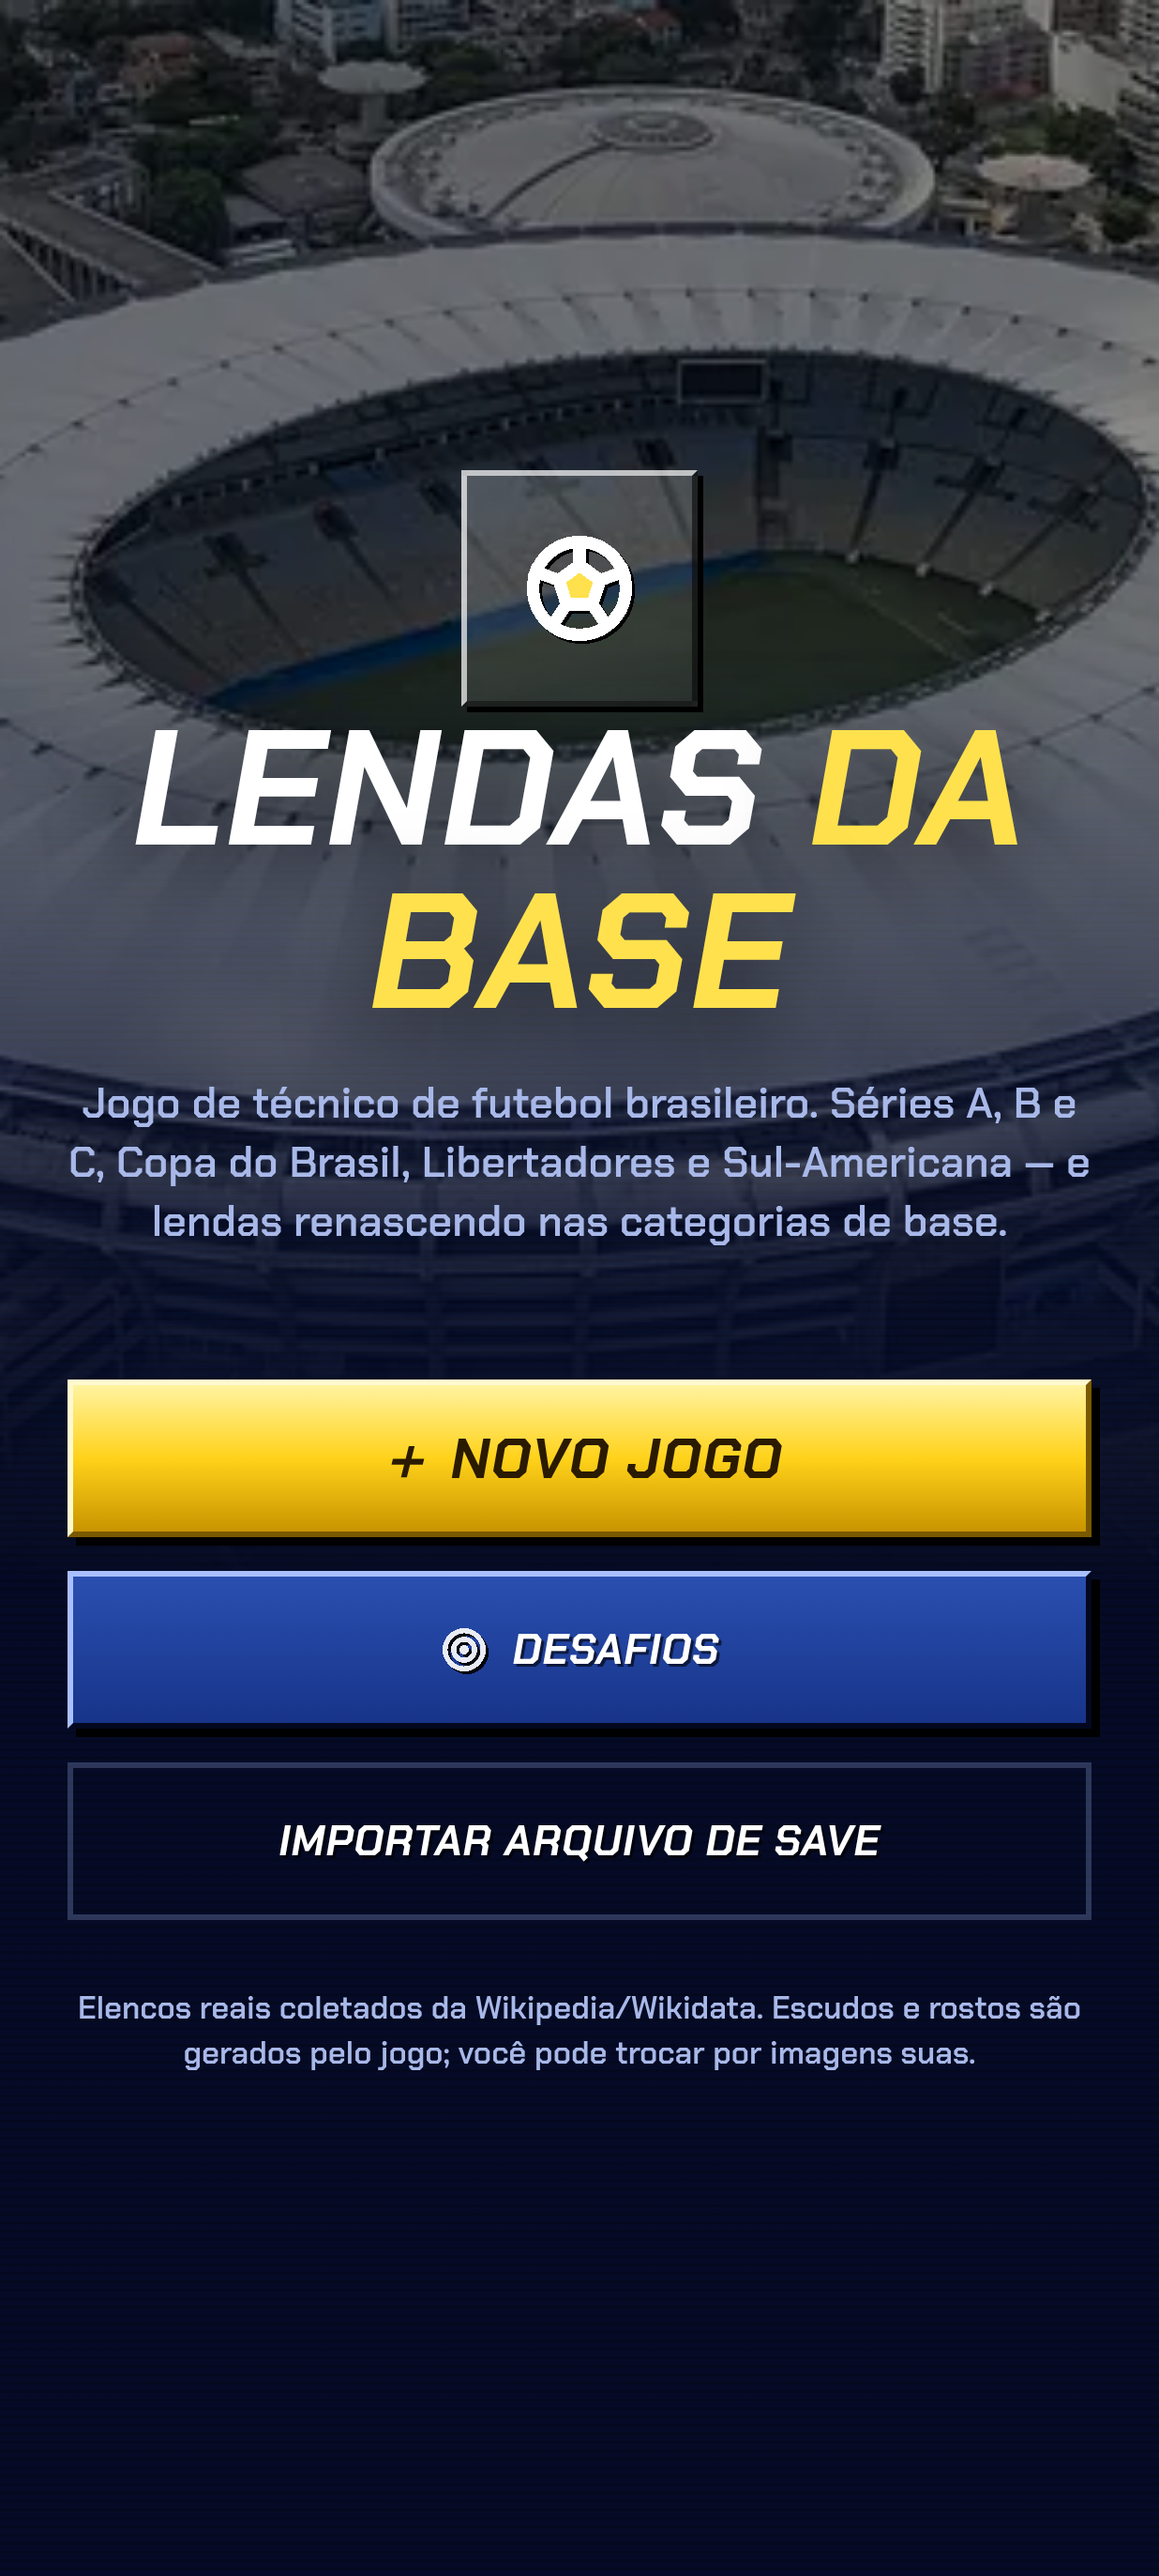
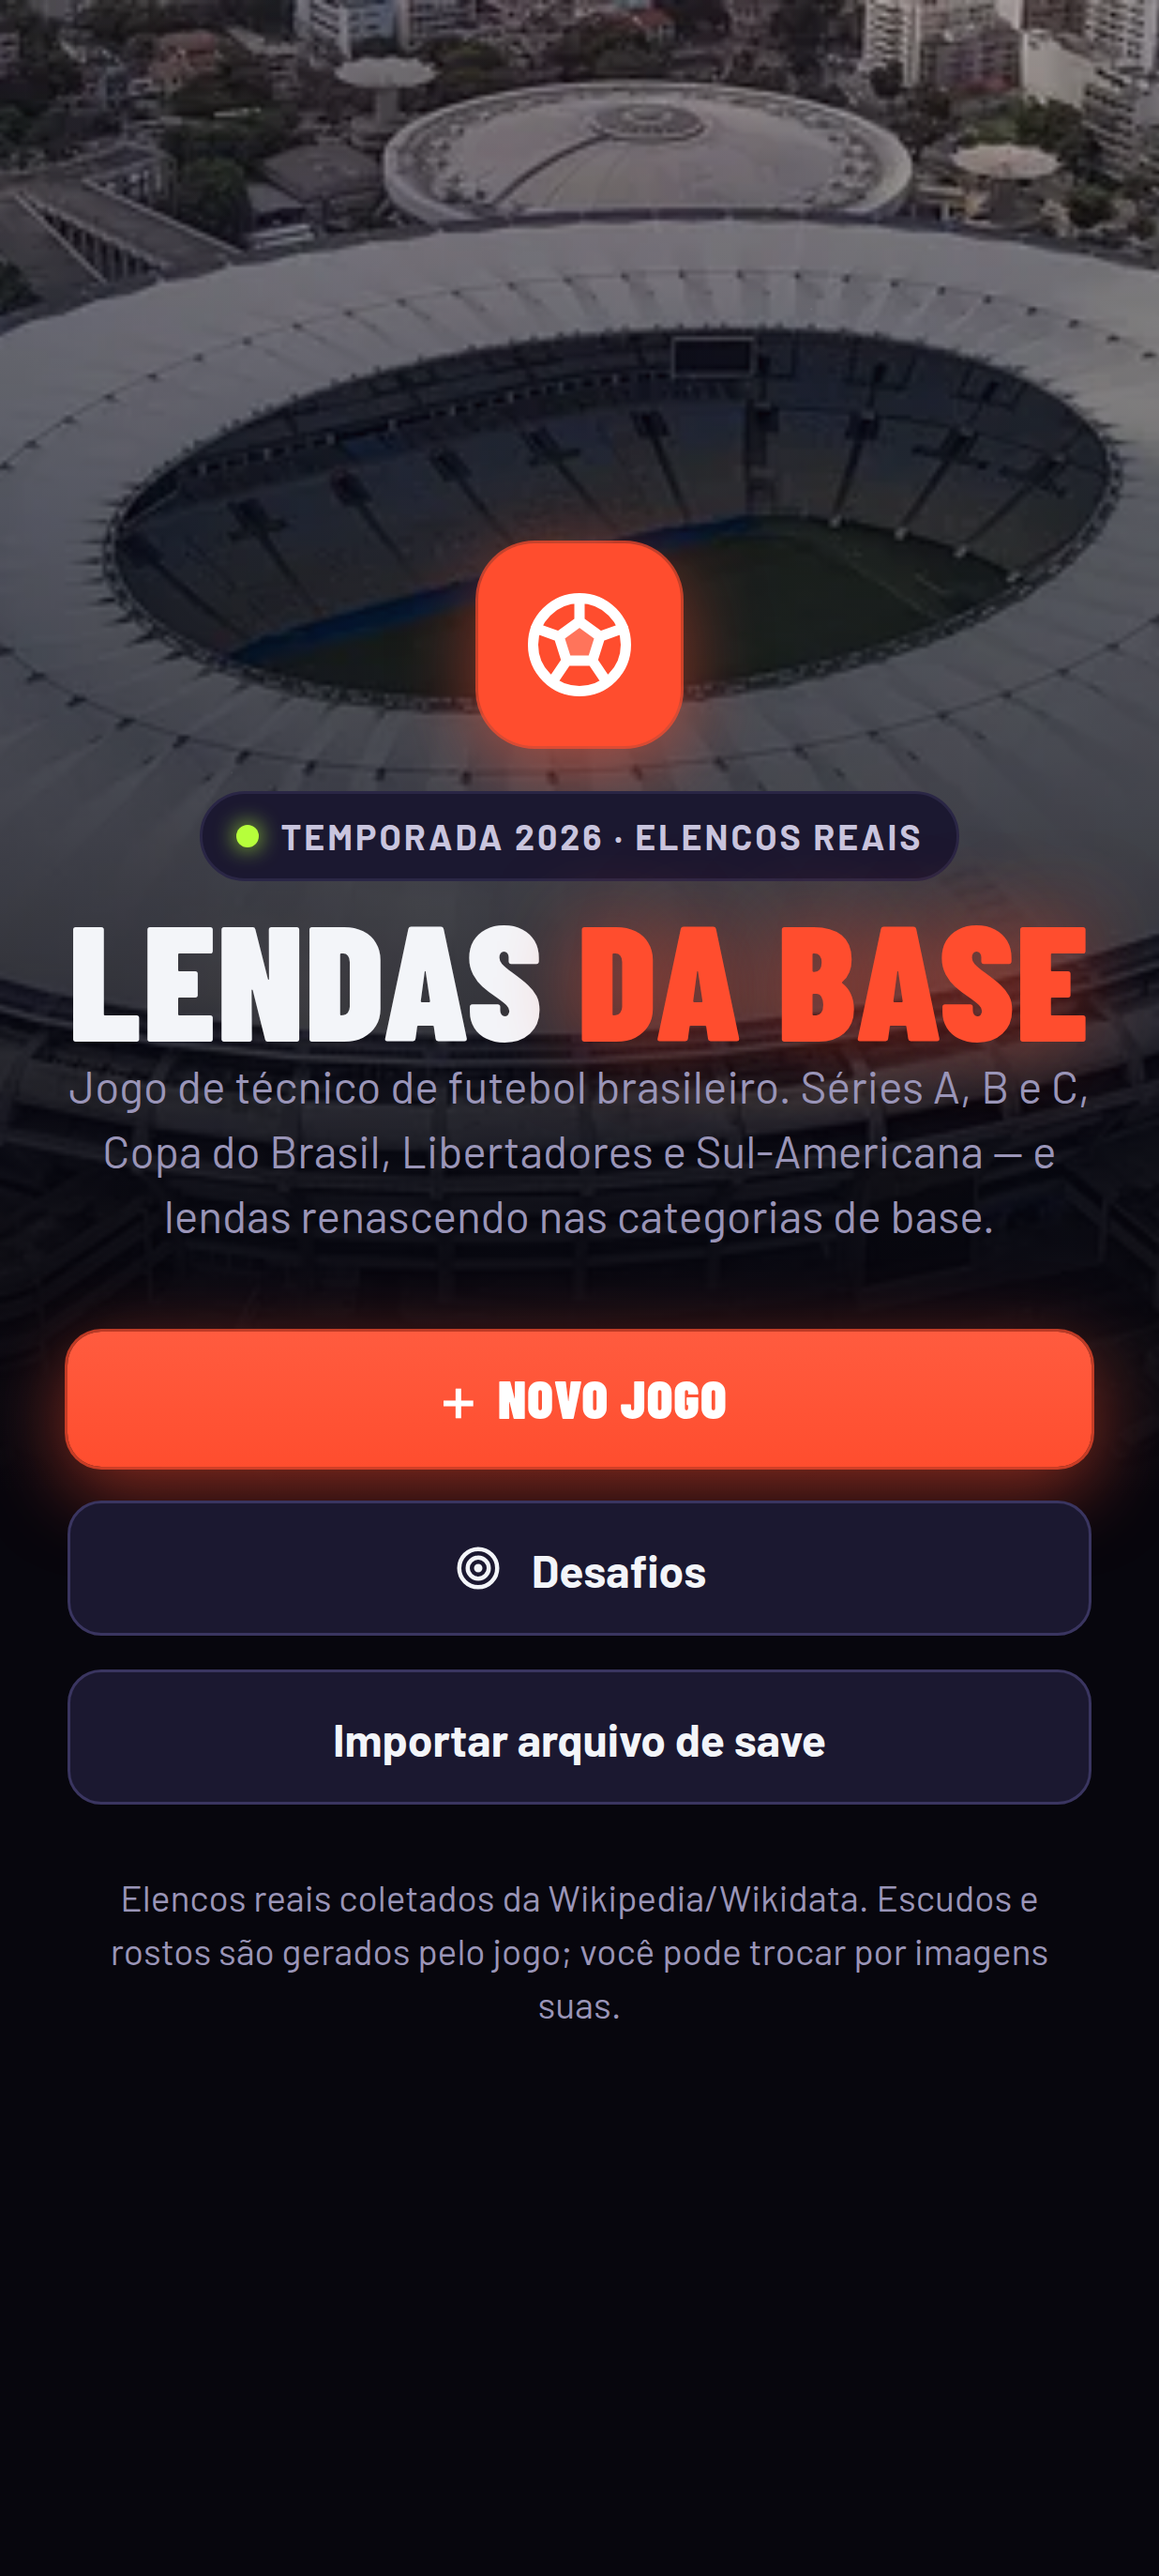
Identidade Noite de Estádio e sede 3D com geografia real
- tema próprio (src/ui/theme.css) no lugar das camadas premium/PS1: cor do clube como marca,
  acento elétrico só em números e status, títulos condensados em caixa-alta, pills com ponto
- casca refeita: barra superior com Voltar consistente, navegação inferior fixa e barra do
  próximo passo (Continuar/Jogar) que não cobre conteúdo; Início refeito
- carta de jogador estilo FUT (foto inteira, nota no canto, nome condensado)
- sede 3D: estádio, CT e sede nas posições reais (Wikidata + OpenStreetMap, distâncias
  comprimidas), ruas/verdes/prédios do OSM, câmera voa até o prédio tocado; detalhe,
  resolução, sombras e torcida crescem com a Estrutura; layout de reserva sem dados
- scripts/fetch_club_sites.py (retomável, 1 req/s) e src/data/clubSites.json (Série A/B em andamento)
- estádios procedurais da partida ganham cobertura/refletores pelo nível do estádio

Claude-Session: https://claude.ai/code/session_01GEdqSD6kocsd4QKZkbJZEj

diff --git a/src/ui/hq/HqRenderer.ts b/src/ui/hq/HqRenderer.ts
@@ -202,7 +202,7 @@ export class HqRenderer {
     const pts = Object.values(this.siteCenter) as THREE.Vector3[];
     const c = pts.reduce((s, p) => s.add(p), new THREE.Vector3()).multiplyScalar(1 / Math.max(1, pts.length));
     const spread = pts.reduce((m, p) => Math.max(m, p.distanceTo(c)), 0);
-    this.overview = { target: c, dist: Math.max(70, spread * 1.3 + 46) };
+    this.overview = { target: c, dist: Math.max(70, spread * 2.3 + 50) };
     this.target.copy(c);
     this.dist = this.overview.dist;
     const fog = this.scene.fog as THREE.Fog;
@@ -795,7 +795,7 @@ export class HqRenderer {
   focus(id: HqBuilding | "overview", then?: () => void) {
     const to = id === "overview" ? this.overview.target.clone() : this.anchors[id]?.clone().setY(0);
     if (!to) return;
-    this.flyTo(to, id === "overview" ? this.overview.dist : id === "stadium" ? 48 : 34, then);
+    this.flyTo(to, id === "overview" ? this.overview.dist : id === "stadium" ? 64 : 40, then);
   }
   focusSite(k: HqSiteKind) {
     const p = this.siteCenter[k];
@@ -803,7 +803,7 @@ export class HqRenderer {
   }
   private flyTo(to: THREE.Vector3, d1: number, then?: () => void) {
     this.idleSince = this.t + 4;
-    this.fly = { t0: this.t, dur: this.o.reduced ? 0.001 : 1.1, from: this.target.clone(), to, d0: this.dist, d1, then };
+    this.fly = { t0: performance.now() / 1000, dur: this.o.reduced ? 0.001 : 1.1, from: this.target.clone(), to, d0: this.dist, d1, then };
     if (!this.raf) this.loop();
   }
 
@@ -880,7 +880,7 @@ export class HqRenderer {
     const t = this.t;
     if (this.fly) {
       const f = this.fly;
-      const k = Math.min(1, (t - f.t0) / f.dur);
+      const k = Math.min(1, (now / 1000 - f.t0) / f.dur); // relógio de parede: chega no tempo certo mesmo com quadros lentos
       const e = k < 0.5 ? 4 * k * k * k : 1 - Math.pow(-2 * k + 2, 3) / 2; // easeInOutCubic
       this.target.lerpVectors(f.from, f.to, e);
       this.dist = f.d0 + (f.d1 - f.d0) * e;

diff --git a/src/ui/hq/hq.css b/src/ui/hq/hq.css
@@ -26,7 +26,7 @@
   font-size: 11px; color: #fff; background: rgba(0,0,0,0.6); padding: 2px 6px; border-radius: 6px;
 }
 .hq-menu {
-  position: absolute; left: 8px; right: 8px; bottom: 8px; z-index: 5; padding: 10px; color: #fff;
+  position: absolute; left: 8px; right: 8px; top: 8px; z-index: 5; padding: 10px; color: #fff;
   background: linear-gradient(180deg, #1b3a8f, #0b1c52); border: 3px solid; border-color: #9fb6ff #050c2a #050c2a #9fb6ff;
   box-shadow: 4px 4px 0 #000; animation: hq-pop 0.18s steps(3) both;
 }

diff --git a/src/ui/theme.css b/src/ui/theme.css
@@ -682,3 +682,5 @@ h3 { font-family: var(--display); font-size: 16px; font-weight: 800; letter-spac
 .start-panel .center > .status-pill { margin: 16px auto 8px !important; }
 .logo { font-size: 58px; }
 .btn.gold { background: linear-gradient(180deg, color-mix(in srgb, var(--club) 92%, #fff), var(--club)); color: var(--club-ink); box-shadow: var(--glow); }
+.mv-ctrl .seg { grid-auto-columns: minmax(0, 1fr) !important; overflow: visible !important; }
+.mv-ctrl .seg button { padding: 0 !important; }

diff --git a/scripts/fetch_club_sites.py b/scripts/fetch_club_sites.py
@@ -337,6 +337,8 @@ def main():
         near = (sites["stadium"]["lat"], sites["stadium"]["lon"]) if "stadium" in sites else None
         # sede
         hq = hq_coord.get(cid)
+        if cid in SEDE_NAMES:
+            hq = None  # nome conhecido da sede é mais preciso que o ponto genérico do Wikidata
         if hq and (not near or 120 < dist_m(hq, near) < 80000):
             sites["sede"] = {"lat": round(hq[0], 6), "lon": round(hq[1], 6), "name": "Sede", "src": "wikidata"}
         else:
